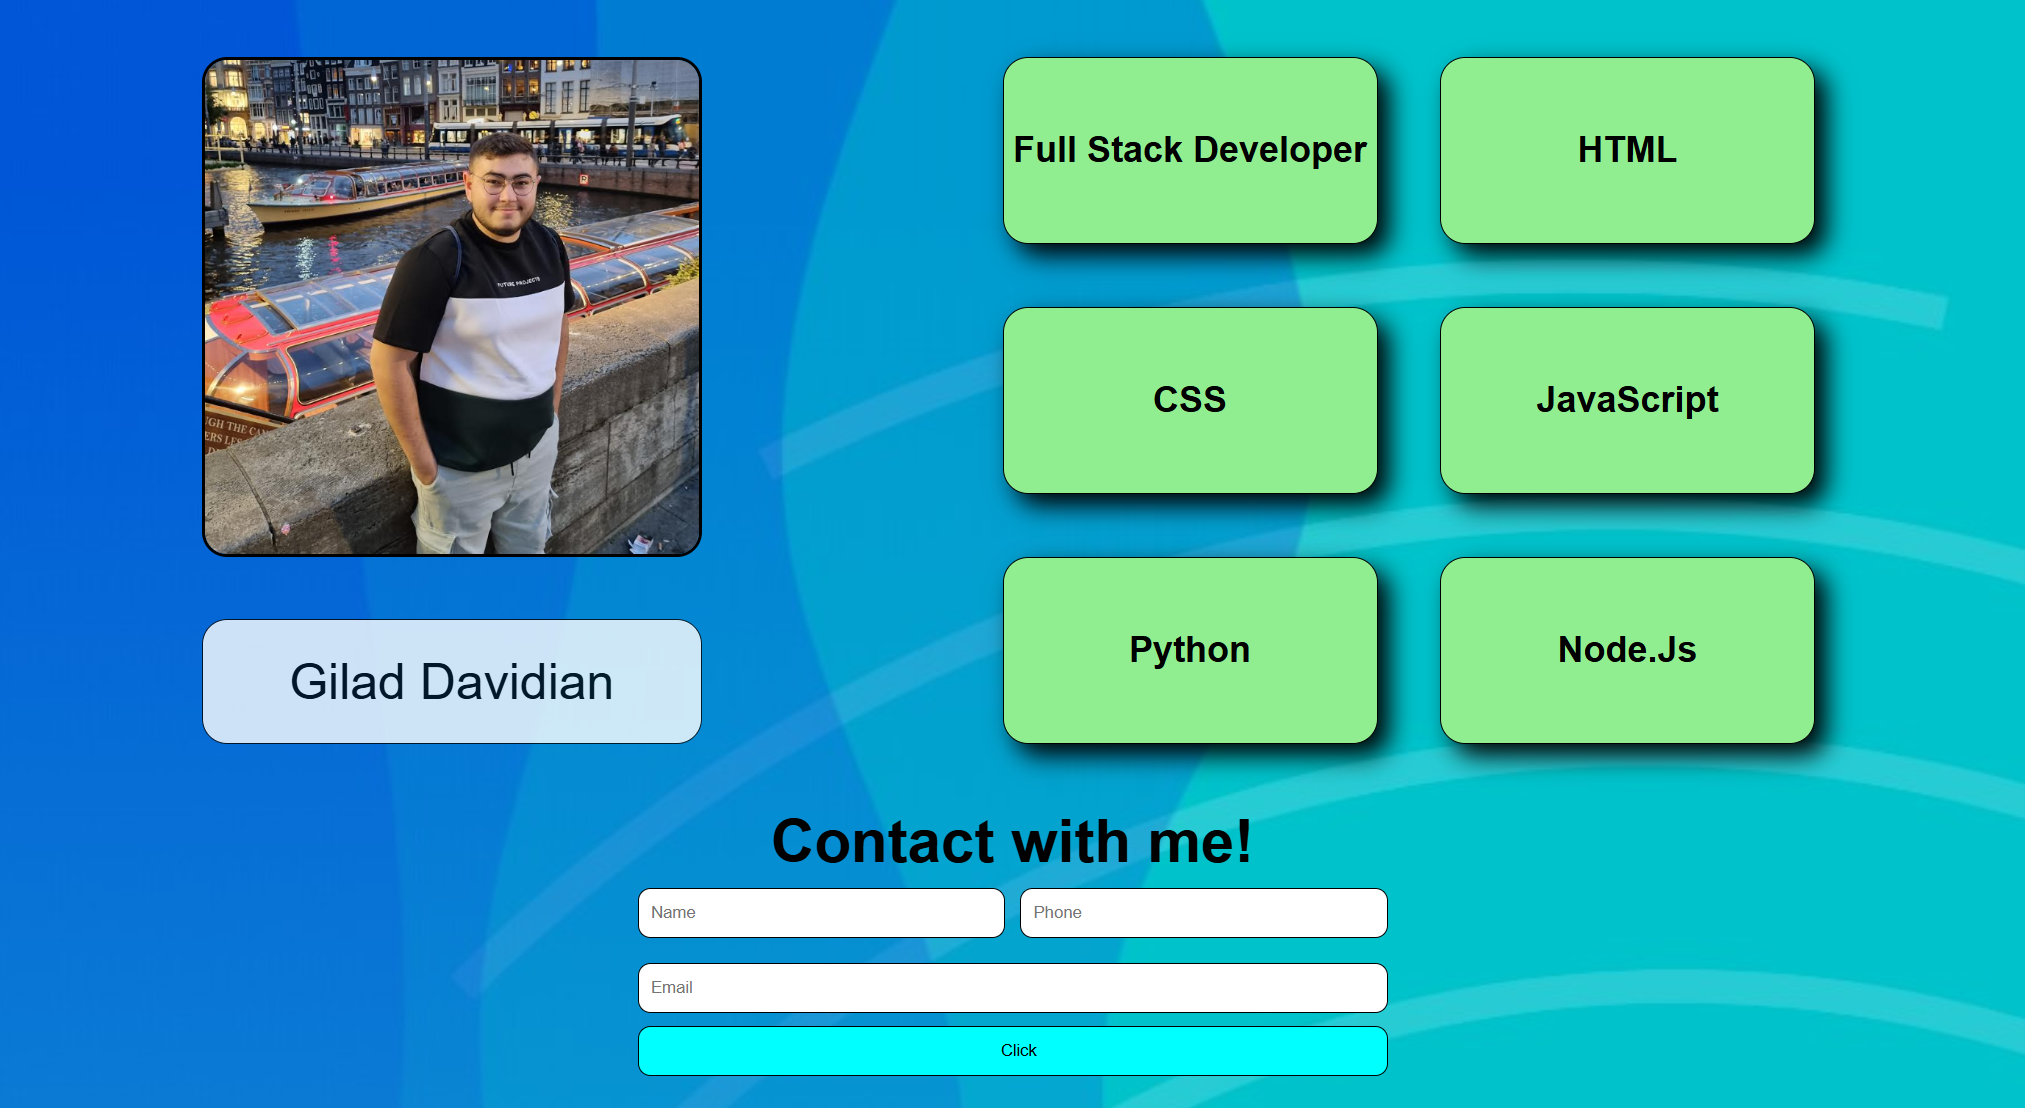
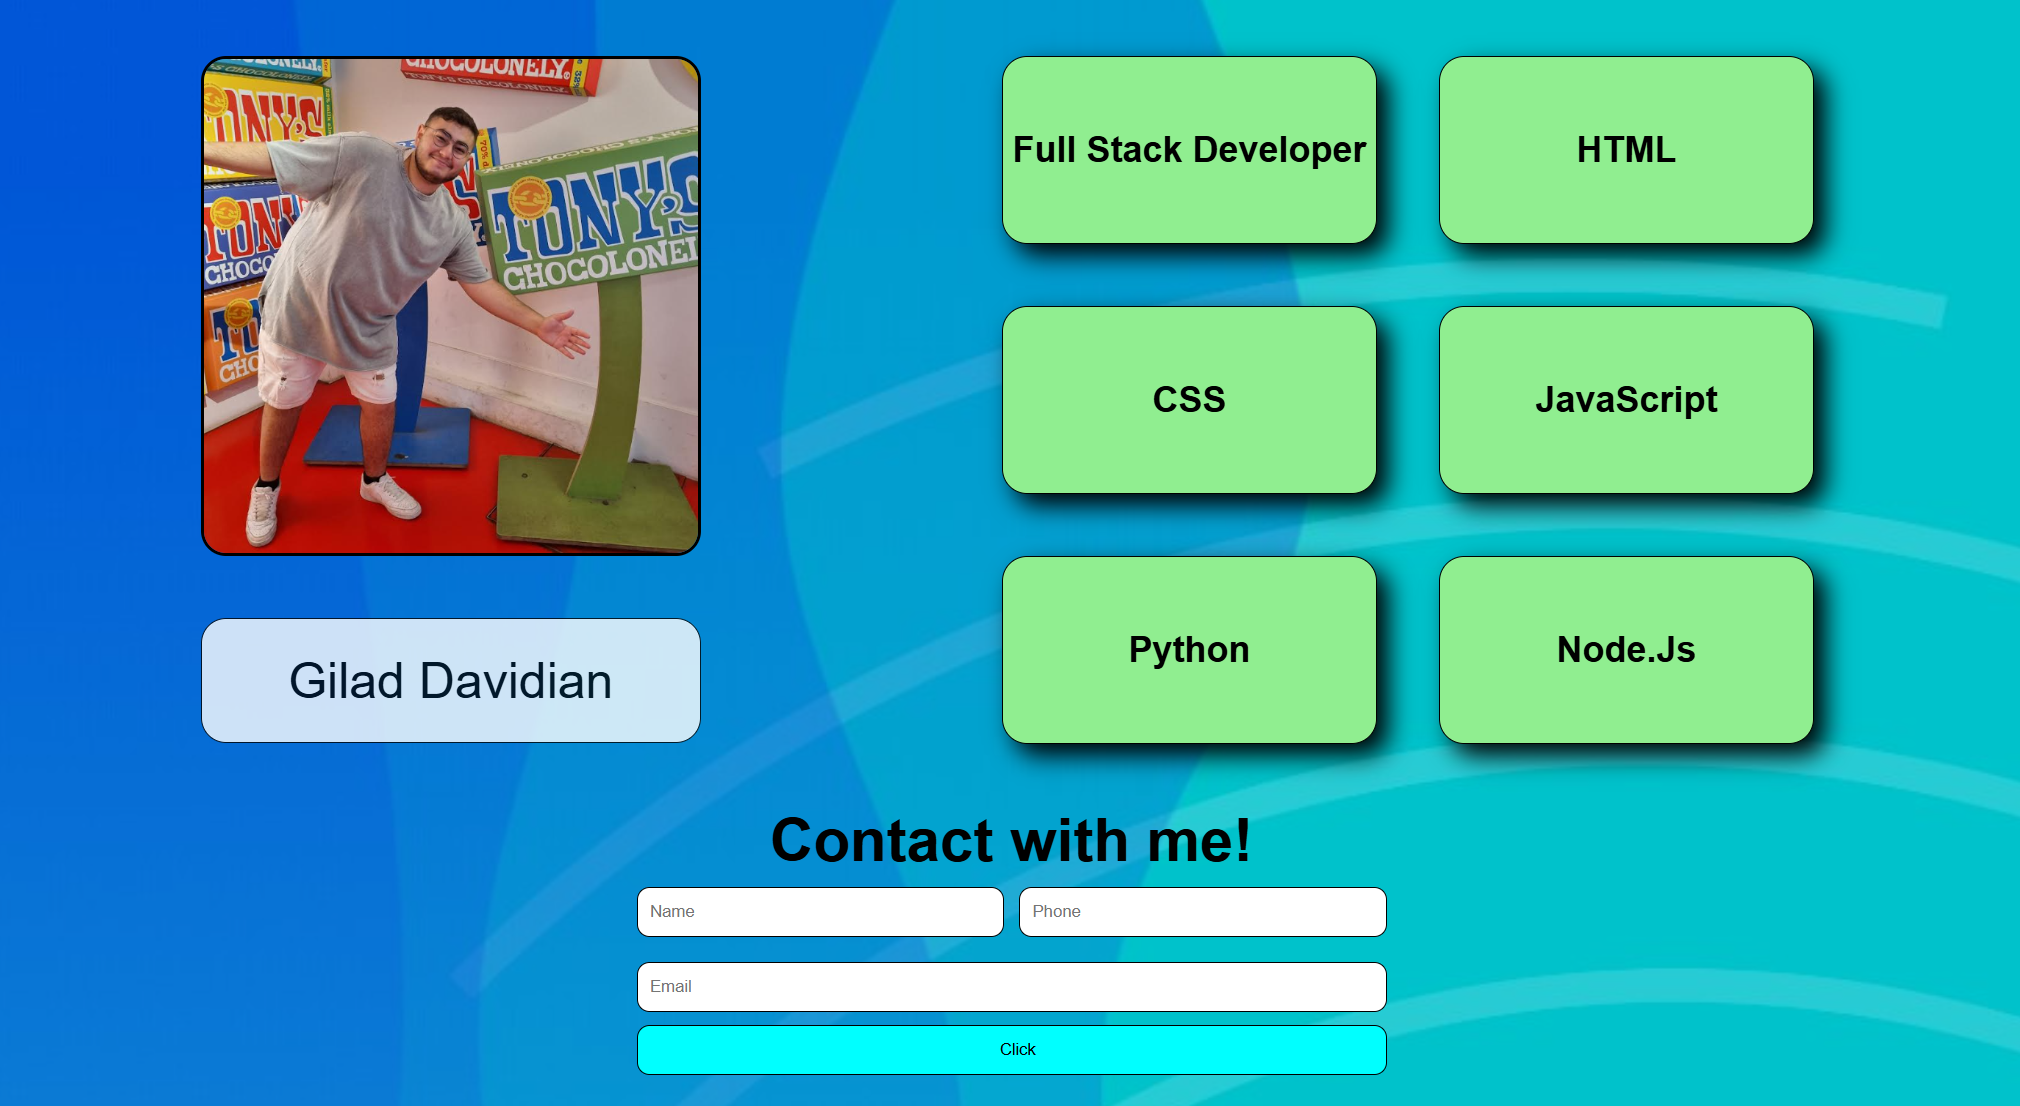
update Projects

diff --git a/index.html b/index.html
@@ -29,7 +29,7 @@
                         <a href="#projects">עבודות</a>
                     </li>
                     <li>
-                        <a href="#contact">צור קשר</a>
+                        <a href="#containerForm">צור קשר</a>
                     </li>
                 </ul>
             </nav>
@@ -46,7 +46,7 @@
                     <a href="#projects">עבודות</a>
                 </li>
                 <li>
-                    <a href="#contact">צור קשר</a>
+                    <a href="#containerForm">צור קשר</a>
                 </li>
             </ul>
         </nav>
@@ -77,27 +77,32 @@
         <div class="boxProject boxProject1">
             <img src="fullPath.png" alt="">
             <h1>פרוייקט 1</h1>
-            <div class="divA"><a href="project1.html" target="_blank">לצפייה בפרויקט &larr;</a></div>
+            <div class="divA"><a href="project1.html" target="_blank" rel="noopener noreferrer">לצפייה בפרויקט
+                    &larr;</a></div>
         </div>
         <div class="boxProject boxProject2">
             <img src="fullPurple.png" alt="">
             <h1>פרוייקט 2</h1>
-            <div class="divA"><a href="project2.html" target="_blank">לצפייה בפרויקט &larr;</a></div>
+            <div class="divA"><a href="project2.html" target="_blank" rel="noopener noreferrer">לצפייה בפרויקט
+                    &larr;</a></div>
         </div>
         <div class="boxProject boxProject3">
             <img src="Here&Now.png" alt="">
             <h1>פרוייקט 3</h1>
-            <div class="divA"><a href="project3.html" target="_blank">לצפייה בפרויקט &larr;</a></div>
+            <div class="divA"><a href="project3.html" target="_blank" rel="noopener noreferrer">לצפייה בפרויקט
+                    &larr;</a></div>
         </div>
         <div class="boxProject boxProject4">
             <img src="fullCoffee.png" alt="">
             <h1>פרוייקט 4</h1>
-            <div class="divA"><a href="project4.html" target="_blank">לצפייה בפרויקט &larr;</a></div>
+            <div class="divA"><a href="project4.html" target="_blank" rel="noopener noreferrer">לצפייה בפרויקט
+                    &larr;</a></div>
         </div>
         <div class="boxProject boxProject5">
             <img src="myProject.png" alt="">
             <h1>פרוייקט 5</h1>
-            <div class="divA"><a href="project5.html" target="_blank">לצפייה בפרויקט &larr;</a></div>
+            <div class="divA"><a href="project5.html" target="_blank" rel="noopener noreferrer">לצפייה בפרויקט
+                    &larr;</a></div>
         </div>
         <div class="boxProject boxProject6">
             <img src="Here&Now.png" alt="">
@@ -105,6 +110,21 @@
             <div class="divA"><a>לצפייה בפרויקט &larr;</a></div>
         </div>
     </section>
+    <div id="containerForm">
+        <form action="">
+            <h1>צור קשר</h1>
+            <p>כאן תוכלו להשאיר פרטים ואחזור אליכם!</p>
+            <label for="">שם מלא</label>
+            <input type="text">
+            <label for="">דוא"ל</label>
+            <input type="text">
+            <label for="">טלפון</label>
+            <input type="text">
+            <label for="">תיאור</label>
+            <input type="text" class="DescriptionInput">
+            <input type="button" value="שליחה" class="buttonInput">
+        </form>
+    </div>
     <footer id="contact">
         <a href="tel:+972528961336">
             <svg xmlns="http://www.w3.org/2000/svg" x="0px" y="0px" width="100" height="100" viewBox="0 0 50 50">

diff --git a/style.css b/style.css
@@ -270,6 +270,53 @@ body {
     border: 1px solid #000;
 }
 
+#containerForm {
+    width: 100%;
+    background-color: black;
+    direction: rtl;
+    background-image: url(logo1.png);
+    background-repeat: no-repeat;
+}
+
+form {
+    width: 50%;
+    padding: 50px;
+    color: aliceblue;
+}
+
+form h1 {
+    font-size: 3rem;
+}
+
+form p {
+    font-size: 1rem;
+    margin-top: 20px;
+}
+
+label {
+    display: block;
+    margin-top: 20px;
+}
+
+input {
+    width: 100%;
+    font-size: 2rem;
+    border-radius: 10px;
+}
+
+.DescriptionInput {
+    height: 200px;
+}
+
+.buttonInput {
+    width: 50%;
+    cursor: pointer;
+    margin-top: 20px;
+    border-radius: 5px;
+    border: none;
+    background-color: white;
+}
+
 #contact {
     height: 200px;
     background-color: black;
@@ -343,6 +390,14 @@ body {
     .boxProject button {
         text-align: center;
         font-size: 1rem;
+    }
+
+    #containerForm {
+        background-image: unset;
+    }
+
+    form {
+        width: 100%;
     }
 }
 

diff --git a/project5.html b/project5.html
@@ -11,7 +11,7 @@
 <body>
     <div class="fullContainer">
         <div class="container">
-            <img src="me1.png" alt="">
+            <img src="Tonys.png" alt="">
             <div class="boxName">Gilad Davidian</div>
         </div>
         <div class="container2">
